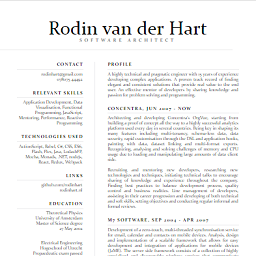
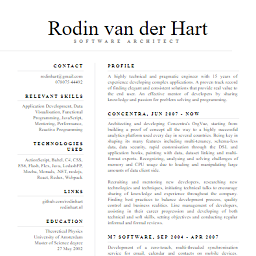
Updated cv font

diff --git a/cv/index.css b/cv/index.css
@@ -10,8 +10,8 @@ html {
 body {
   background-color: #fff;
   border: 1px solid #ddd;
-  font-family: Constantia;
-  font-size: 10pt;
+  font-family: Times, sans-serif;
+  font-size: 11pt;
   height: 297mm;
   margin: auto;
   width: 210mm;
@@ -23,7 +23,7 @@ a {
 }
 
 #Name {
-  font-size: 44pt;
+  font-size: 48pt;
   line-height: 1;
   margin-top: 15mm;
   text-align: center;
